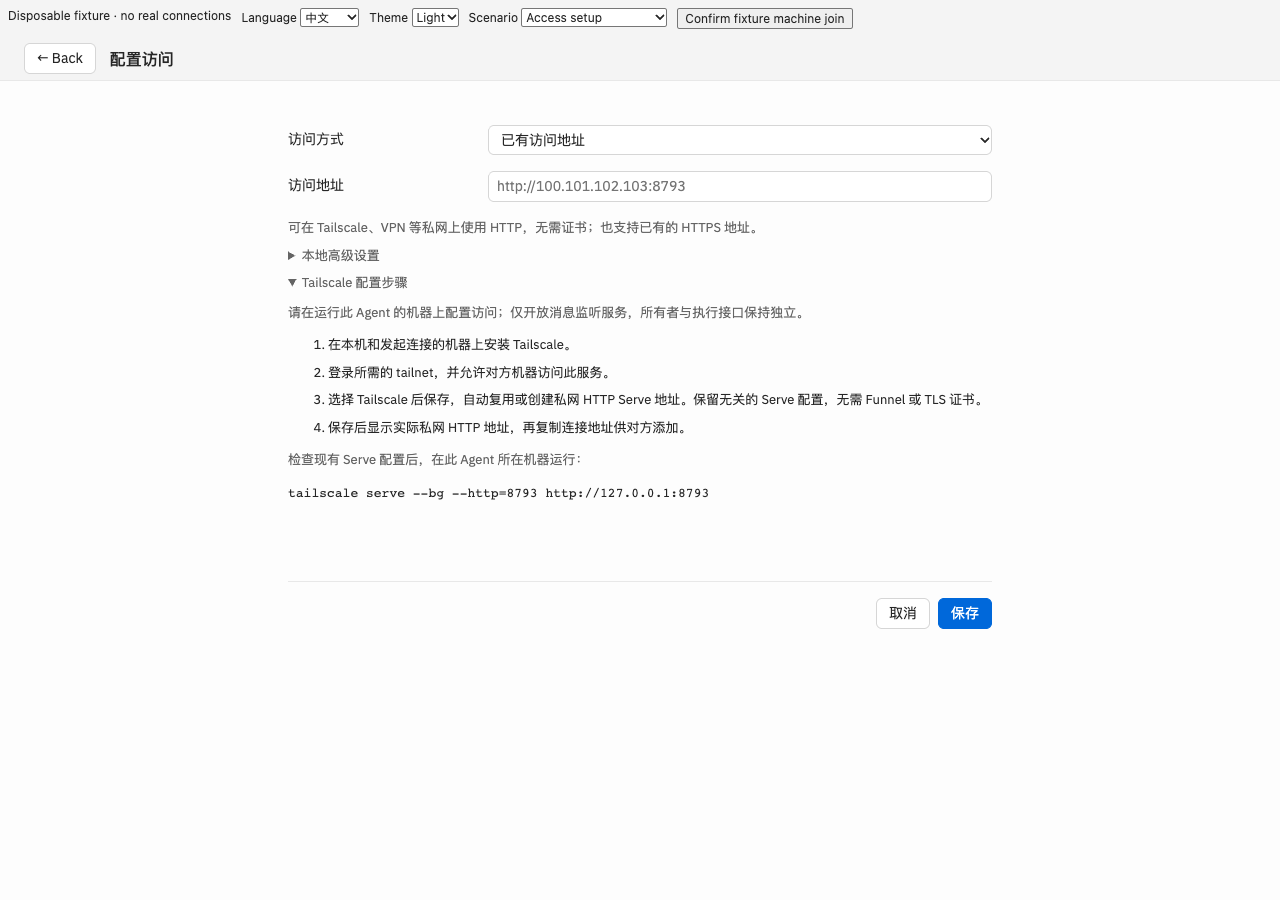
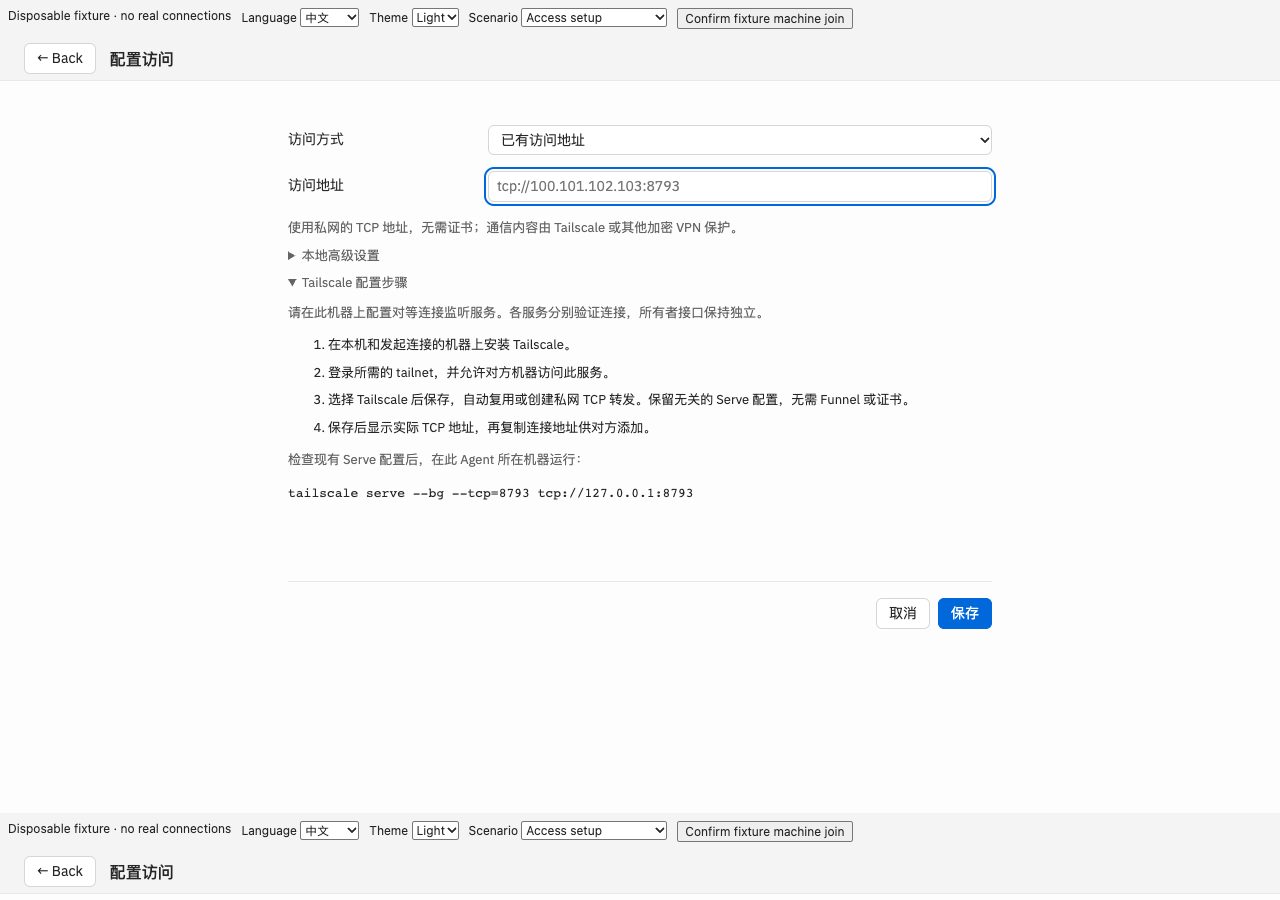
Use TCP connection addresses and repair existing Runner endpoints

diff --git a/scripts/tests/go-ui-membership-browser.js b/scripts/tests/go-ui-membership-browser.js
@@ -9,7 +9,7 @@ async page => {
   fixture.setup=async({desktop=true,role='embedded',stale=false}={})=>{
    document.querySelectorAll('dialog').forEach(dialog=>dialog.remove());document.body.replaceChildren();fixture.role=role;fixture.calls=[];fixture.editor=null;
    const root=n('main','page-content');document.body.append(root);const machine={id:'runner',runtime_id:'runner',name:'Runner',tags:['linux'],_space_id:'cloud',_space_name:'Cloud',_stale:stale};const card=n('section','machine-card');card.dataset.machineId='runner';card.dataset.spaceId='cloud';card.append(n('div','machine-header'));root.append(card);
-   const client={desktop,request:async(path,options)=>{fixture.calls.push({path,...options});if(!options.method)return {role:fixture.role,identity:fixture.identity,membership:{url:'https://control.example'}};if(options.body.action==='preview')return fixture.previewWait?await new Promise(resolve=>fixture.resolvePreview=resolve):{runtime_id:'destination',fingerprint:'fingerprint-proof'};if(options.body.action==='create_invitation')return {invitation:'single-use-fixture',expires_at_ms:1900000000000};return {ok:true};}};
+   const client={desktop,request:async(path,options)=>{fixture.calls.push({path,...options});if(!options.method)return {role:fixture.role,identity:fixture.identity,membership:{url:'tcp://control.example:8793',control:{runtime_id:'control',fingerprint:'saved-key-pin'}}};if(options.body.action==='preview')return fixture.previewWait?await new Promise(resolve=>fixture.resolvePreview=resolve):{runtime_id:'destination',fingerprint:'fingerprint-proof'};if(options.body.action==='create_invitation')return {invitation:'single-use-fixture',expires_at_ms:1900000000000};return {ok:true};}};
    const edit=({title,initial,fields,save,scope})=>{const view=n('main'),form=n('form'),controls=new Map(),session=createEditorSession(scope,initial),footer=n('div','editor-actions');document.body.replaceChildren(view);view.append(n('h2','',title),form);for(const definition of fields){const {name,label,...options}=definition,item=field(label,initial[name],options);controls.set(name,item.input);item.input.addEventListener('input',()=>session.set(name,options.kind==='checkbox'?item.input.checked:item.input.value));form.append(item.row);}const submit=action('Save',()=>form.requestSubmit(),{primary:true});footer.append(submit);form.append(footer);form.onsubmit=async event=>{event.preventDefault();fixture.error='';const attempt=session.begin();try{await save(attempt.values,{...scope,request_id:attempt.request_id});fixture.saved=true;session.settle(true);}catch(reason){fixture.error=reason.message;session.settle(false);}};const result={root:view,form,controls,session,lifecycle:{}};fixture.editor=result;return result;};
    await renderMachineMembership({client,root,machines:[machine],locale:()=> 'en',notify:message=>fixture.notices.push(message),refresh:()=>fixture.refreshed=true,edit});
   };
@@ -20,7 +20,8 @@ async page => {
  await page.getByRole('button',{name:'Edit labels',exact:true}).click();await page.getByLabel('Labels (separated by spaces or commas)',{exact:true}).fill('task-runner, ');assert(await page.getByRole('button',{name:'Remove label task-runner',exact:true}).count()===1,'Delimited labels become chips');await page.getByRole('button',{name:'Remove label linux',exact:true}).click();await page.getByRole('button',{name:'Save',exact:true}).click();assert(await page.evaluate(()=>membershipFixture.calls.at(-1).body.tags.join(','))==='task-runner','Labels commit/remove exact');assert(await page.evaluate(()=>membershipFixture.calls.at(-1).space==='cloud'&&membershipFixture.calls.at(-1).owner===''),'Labels retain Space and owner');
  await page.evaluate(()=>membershipFixture.setup({role:'control'}));await page.getByText('More',{exact:true}).click();await page.getByRole('button',{name:'Create machine invitation',exact:true}).click();assert(await page.getByLabel('Machine invitation',{exact:true}).inputValue()==='single-use-fixture','Explicit invitation renders');await page.getByRole('button',{name:'Remove machine',exact:true}).click();assert(await page.evaluate(()=>membershipFixture.calls.filter(call=>call.body?.action==='remove_member').length)===0,'Remove confirmation does not revoke immediately');await page.getByRole('dialog').getByRole('button',{name:'Cancel',exact:true}).click();assert(await page.evaluate(()=>membershipFixture.calls.filter(call=>call.body?.action==='remove_member').length)===0,'Cancel retains membership');await page.getByText('More',{exact:true}).click();await page.getByRole('button',{name:'Remove machine',exact:true}).click();await page.getByRole('dialog').getByRole('button',{name:'Remove machine',exact:true}).click();assert(await page.evaluate(()=>membershipFixture.calls.at(-1).body.runtime_id==='runner'&&membershipFixture.calls.at(-1).space==='cloud'),'Confirmed remove binds exact machine and Space');
  await page.evaluate(()=>membershipFixture.setup({role:'control',stale:true}));assert(await page.evaluate(()=>membershipFixture.calls.length)===0,'Stale Space exposes no administrative actions');
- await page.evaluate(()=>membershipFixture.setup({role:'neutral'}));await page.getByRole('button',{name:'Join a Control',exact:true}).click();await page.getByLabel('Control address',{exact:true}).fill('https://control.example');await page.getByLabel('Machine invitation',{exact:true}).fill('secret-invitation');assert(await page.getByRole('button',{name:'Join Control',exact:true}).isDisabled(),'Join requires preview');await page.evaluate(()=>membershipFixture.previewWait=true);await page.getByRole('button',{name:'Preview Control',exact:true}).click();await page.getByLabel('Control address',{exact:true}).fill('https://changed.example');await page.evaluate(()=>{membershipFixture.resolvePreview({runtime_id:'old',fingerprint:'old'});membershipFixture.previewWait=false;});assert(await page.getByRole('button',{name:'Join Control',exact:true}).isDisabled(),'Late preview cannot approve changed destination');await page.getByRole('button',{name:'Preview Control',exact:true}).click();assert(await page.getByRole('button',{name:'Join Control',exact:true}).isDisabled(),'Preview needs explicit owner identity check');await page.getByLabel('I verified this Runtime ID and fingerprint',{exact:true}).check();await page.getByRole('button',{name:'Join Control',exact:true}).click();assert(await page.evaluate(()=>{const call=membershipFixture.calls.at(-1);return call.space==='cloud'&&call.owner===''&&call.body.request.expected_runtime_id==='destination'&&call.body.request.expected_fingerprint==='fingerprint-proof'&&call.body.request.url==='https://changed.example'&&!!call.body.request.request_id;}),'Join pins verified identity and captured Space');
+ await page.evaluate(()=>membershipFixture.setup({role:'neutral'}));await page.getByRole('button',{name:'Join a Control',exact:true}).click();assert(await page.getByLabel('Private CA certificate (optional)',{exact:true}).count()===0,'TCP join needs no certificate');await page.getByLabel('Control address',{exact:true}).fill('tcp://control.example:8793');await page.getByLabel('Join invitation',{exact:true}).fill('secret-invitation');assert(await page.getByRole('button',{name:'Join Control',exact:true}).isDisabled(),'Join requires preview');await page.evaluate(()=>membershipFixture.previewWait=true);await page.getByRole('button',{name:'Preview Control',exact:true}).click();await page.getByLabel('Control address',{exact:true}).fill('tcp://changed.example:8793');await page.evaluate(()=>{membershipFixture.resolvePreview({runtime_id:'old',fingerprint:'old'});membershipFixture.previewWait=false;});assert(await page.getByRole('button',{name:'Join Control',exact:true}).isDisabled(),'Late preview cannot approve changed destination');await page.getByRole('button',{name:'Preview Control',exact:true}).click();assert(await page.getByRole('button',{name:'Join Control',exact:true}).isDisabled(),'Preview needs explicit owner identity check');await page.getByLabel('I verified this Runtime ID and fingerprint',{exact:true}).check();await page.getByRole('button',{name:'Join Control',exact:true}).click();assert(await page.evaluate(()=>{const call=membershipFixture.calls.at(-1);return call.space==='cloud'&&call.owner===''&&call.body.request.expected_runtime_id==='destination'&&call.body.request.expected_fingerprint==='fingerprint-proof'&&call.body.request.url==='tcp://changed.example:8793'&&!!call.body.request.request_id;}),'Join pins verified identity and captured Space');
+ await page.evaluate(()=>membershipFixture.setup({role:'runner'}));await page.getByRole('button',{name:'Update Control address',exact:true}).click();await page.getByLabel('Control address',{exact:true}).fill('tcp://100.88.0.9:8793');await page.getByRole('button',{name:'Save',exact:true}).click();assert(await page.evaluate(()=>{const body=membershipFixture.calls.at(-1).body;return body.action==='set_endpoint'&&body.url==='tcp://100.88.0.9:8793'&&body.expected_runtime_id==='control'&&body.expected_fingerprint==='saved-key-pin'&&!body.invitation&&!body.ca_pem;}),'Address repair preserves the original Control identity without reenrollment');
  await page.evaluate(()=>membershipFixture.setup({role:'runner'}));await page.getByRole('button',{name:'Leave Control',exact:true}).click();await page.getByRole('button',{name:'Leave Control',exact:true}).click();assert(await page.evaluate(()=>membershipFixture.calls.filter(call=>call.body?.action==='leave').length)===0,'Leave requires explicit cleanup confirmation');await page.getByLabel('Disconnect this execution machine after its active operations have been cleaned up',{exact:true}).check();await page.getByRole('button',{name:'Leave Control',exact:true}).click();assert(await page.evaluate(()=>membershipFixture.calls.at(-1).body.action==='leave'),'Confirmed leave delegates cleanup to backend');
  return {passed:true};
 }

diff --git a/scripts/tests/go-ui-agent-access-browser.js b/scripts/tests/go-ui-agent-access-browser.js
@@ -7,33 +7,33 @@ async page => {
  await page.locator('#fixture-scenario').selectOption('access');
  await page.getByRole('button',{name:'Configure access',exact:true}).click();
  assert(await page.getByLabel('Access method',{exact:true}).inputValue()==='address','Existing access address is the default');
- assert((await page.getByLabel('Access address',{exact:true}).getAttribute('placeholder')).startsWith('http://100.'),'Private HTTP is the default example');
+ assert((await page.getByLabel('Access address',{exact:true}).getAttribute('placeholder')).startsWith('tcp://100.'),'Private TCP is the default example');
  await page.getByText('Advanced local settings',{exact:true}).click();
- assert(await page.getByLabel('Local message listener',{exact:true}).getAttribute('readonly')!==null,'The message listener stays read-only');
- await page.getByLabel('Access address',{exact:true}).fill('http://100.88.0.5:8793');await page.getByRole('button',{name:'Save',exact:true}).click();
- await page.locator('.agent-link-address').getByText('http://100.88.0.5:8793',{exact:true}).waitFor();
- assert(await page.evaluate(()=>topologyFixture.calls.some(call=>call.body?.action==='configure'&&call.body.mode==='address'&&call.body.endpoint==='http://100.88.0.5:8793')),'Private HTTP is saved without requiring HTTPS');
+ assert(await page.getByLabel('Local peer listener',{exact:true}).getAttribute('readonly')!==null,'The message listener stays read-only');
+ await page.getByLabel('Access address',{exact:true}).fill('tcp://100.88.0.5:8793');await page.getByRole('button',{name:'Save',exact:true}).click();
+ await page.locator('.agent-link-address').getByText('tcp://100.88.0.5:8793',{exact:true}).waitFor();
+ assert(await page.evaluate(()=>topologyFixture.calls.some(call=>call.body?.action==='configure'&&call.body.mode==='address'&&call.body.endpoint==='tcp://100.88.0.5:8793')),'Private TCP is saved without a certificate');
  await page.locator('#fixture-scenario').selectOption('access');await page.getByRole('button',{name:'Configure access',exact:true}).click();
- await page.getByLabel('Access address',{exact:true}).fill('http://203.0.113.10:8793');await page.getByRole('button',{name:'Save',exact:true}).click();
- await page.getByText('Enter a reachable Tailscale/VPN private HTTP address, or an existing HTTPS address.',{exact:true}).waitFor();
+ await page.getByLabel('Access address',{exact:true}).fill('tcp://203.0.113.10:8793');await page.getByRole('button',{name:'Save',exact:true}).click();
+ await page.getByText('Enter a reachable private TCP address, such as tcp://100.101.102.103:8793.',{exact:true}).waitFor();
  await page.locator('#fixture-language').selectOption('zh-CN');
- await page.getByText('请填写可达的 Tailscale/VPN 私网 HTTP 地址，或已有的 HTTPS 地址。',{exact:true}).waitFor();
- assert(await page.getByLabel('访问地址',{exact:true}).inputValue()==='http://203.0.113.10:8793','A rejected address and locale change preserve the draft');
- await page.getByLabel('访问地址',{exact:true}).fill('https://agent.example.com');await page.getByRole('button',{name:'保存',exact:true}).click();
- await page.locator('.agent-link-address').getByText('https://agent.example.com',{exact:true}).waitFor();
+ await page.getByText('请填写可达的私网 TCP 地址，例如 tcp://100.101.102.103:8793。',{exact:true}).waitFor();
+ assert(await page.getByLabel('访问地址',{exact:true}).inputValue()==='tcp://203.0.113.10:8793','A rejected address and locale change preserve the draft');
+ await page.getByLabel('访问地址',{exact:true}).fill('tcp://10.88.0.6:8793');await page.getByRole('button',{name:'保存',exact:true}).click();
+ await page.locator('.agent-link-address').getByText('tcp://10.88.0.6:8793',{exact:true}).waitFor();
  await page.locator('#fixture-scenario').selectOption('tsmissing');await page.getByRole('button',{name:'配置访问',exact:true}).click();
  await page.getByLabel('访问方式',{exact:true}).selectOption('tailscale');
  assert(!await page.getByLabel('访问地址',{exact:true}).isVisible(),'Automatic Tailscale does not require a manual address');
  await page.getByRole('button',{name:'保存',exact:true}).click();await page.getByText('请先在此 Agent 所在机器安装 Tailscale，再重试。',{exact:true}).waitFor();
  await page.locator('#fixture-language').selectOption('en');await page.getByText('Install Tailscale on this Agent’s machine, then try again.',{exact:true}).waitFor();
- assert(await page.locator('pre').filter({hasText:'tailscale serve --bg --http=8793'}).count()===1,'Tailscale instructions create private HTTP Serve without certificates');
+ assert(await page.locator('pre').filter({hasText:'tailscale serve --bg --tcp=8793'}).count()===1,'Tailscale instructions create private TCP Serve without certificates');
  await page.locator('#fixture-scenario').selectOption('ready');await page.getByRole('button',{name:'Save',exact:true}).click();
- await page.locator('.agent-link-address').getByText('http://local-pot.fixture-tailnet.ts.net',{exact:true}).waitFor();
+ await page.locator('.agent-link-address').getByText('tcp://local-pot.fixture-tailnet.ts.net:8793',{exact:true}).waitFor();
  await page.setViewportSize({width:393,height:852});await page.locator('#fixture-scenario').selectOption('access');await page.getByRole('button',{name:'Configure access',exact:true}).click();
  assert(await page.evaluate(()=>document.documentElement.scrollWidth<=innerWidth),'The access editor fits a narrow viewport');
  await page.setViewportSize({width:1280,height:900});await page.locator('#fixture-language').selectOption('zh-CN');await page.getByLabel('访问方式',{exact:true}).selectOption('address');
  await page.getByLabel('访问地址',{exact:true}).fill('');const guide=page.locator('details').filter({has:page.getByText('Tailscale 配置步骤',{exact:true})});if(await guide.getAttribute('open')===null)await page.getByText('Tailscale 配置步骤',{exact:true}).click();
  await page.screenshot({path:'output/pr-images/access-address-desktop-after.png'});
  assert(!errors.length,'No browser exceptions: '+errors.join('; '));
- return {passed:true,privateHTTP:true,optionalHTTPS:true,privateAddressRepair:true,tailscaleHTTP:true,localeDraftAndErrors:true,readonlyListener:true,mobileWidth:393};
+ return {passed:true,privateTCP:true,privateAddressRepair:true,tailscaleTCP:true,localeDraftAndErrors:true,readonlyListener:true,mobileWidth:393};
 }

diff --git a/scripts/tests/go-ui-topology-browser.js b/scripts/tests/go-ui-topology-browser.js
@@ -14,9 +14,9 @@ async page => {
  await page.getByRole('button',{name:'Pause animation',exact:true}).click();
  assert(await page.locator('.topology-map').evaluate(element=>element.classList.contains('topology-paused')),'Ready animation can be paused');
  await page.getByRole('button',{name:'Add Agent',exact:true}).click();
- await page.getByLabel('Other Agent address',{exact:true}).fill('https://second.example/connect#synthetic');
+ await page.getByLabel('Other Agent address',{exact:true}).fill('tcp://second.example:8793#synthetic');
  await page.locator('#fixture-language').selectOption('zh-CN');
- assert(await page.getByLabel('对方连接地址',{exact:true}).inputValue()==='https://second.example/connect#synthetic','Locale changes preserve sensitive memory-only input');
+ assert(await page.getByLabel('对方连接地址',{exact:true}).inputValue()==='tcp://second.example:8793#synthetic','Locale changes preserve sensitive memory-only input');
  await page.locator('#fixture-scenario').selectOption('expired');await page.getByRole('button',{name:'连接',exact:true}).click();
  await page.getByText('连接地址已失效，请对方重新复制。',{exact:true}).waitFor();
  assert(await page.getByLabel('对方连接地址',{exact:true}).inputValue().then(value=>value.includes('#synthetic')),'Rejected connection retains its draft');
